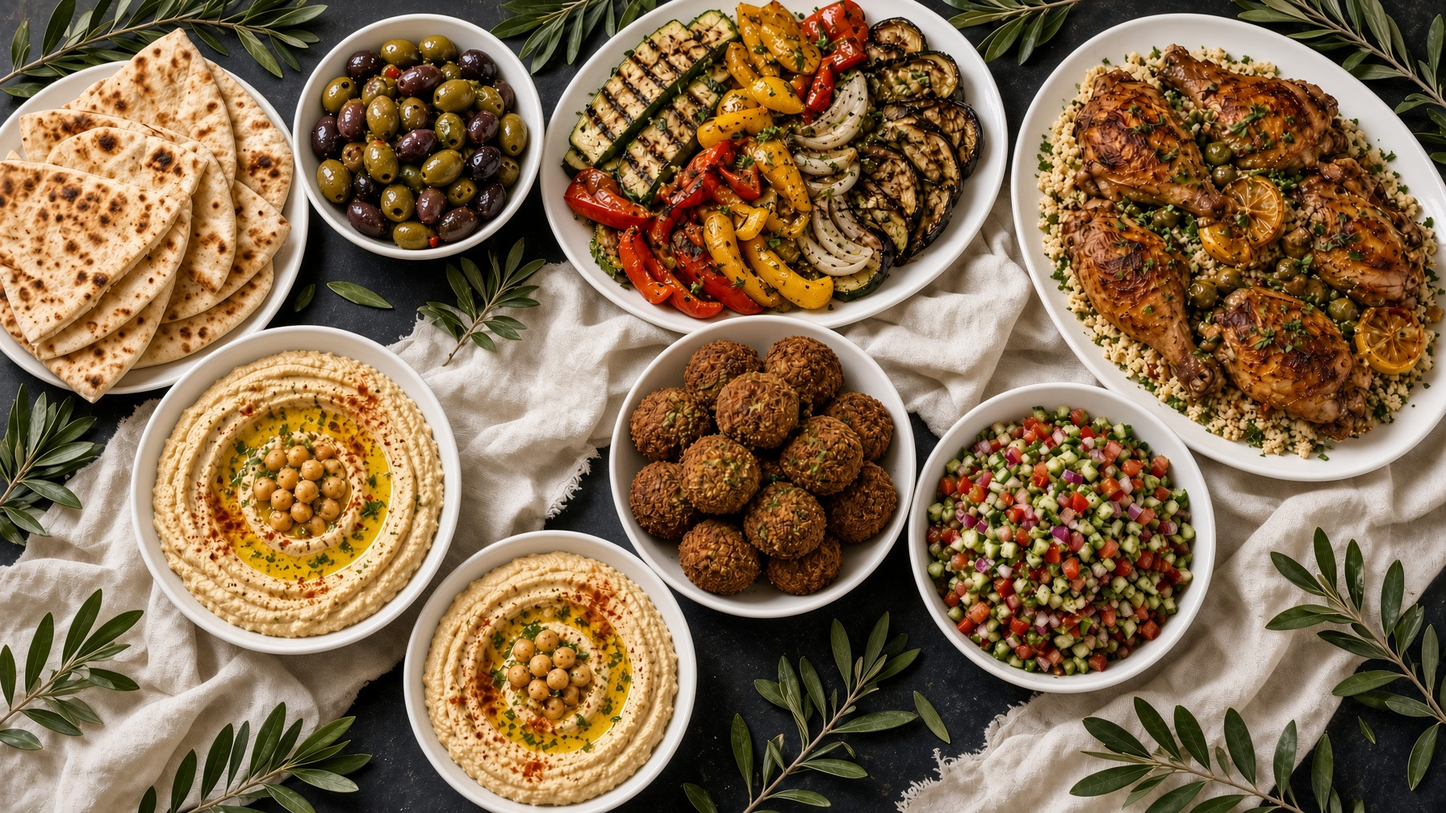
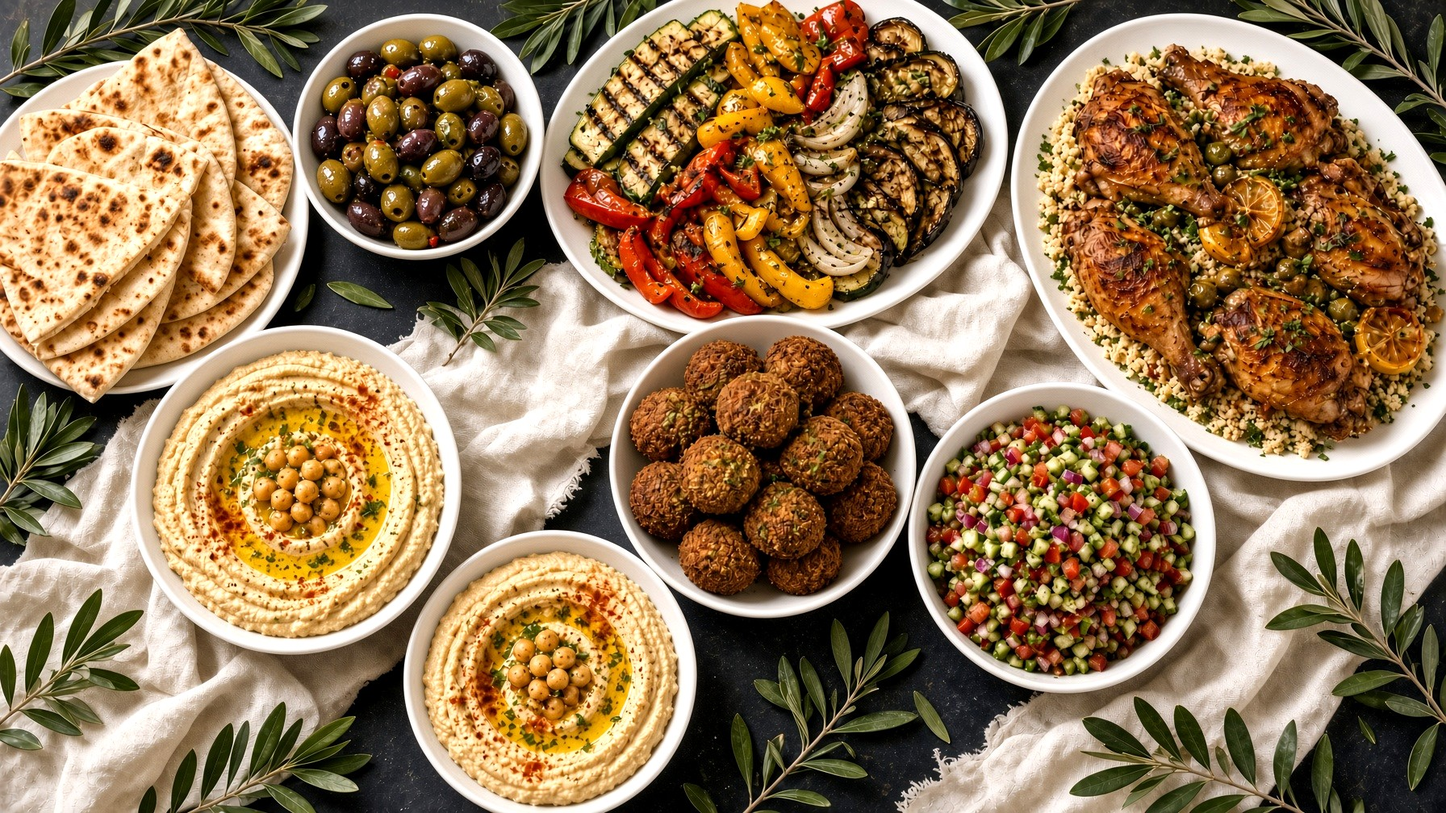
update pics and lighten top page pics

diff --git a/src/routes/index.tsx b/src/routes/index.tsx
@@ -18,7 +18,7 @@ function Home() {
           alt="House hummus with olive oil, chickpeas, and pita"
           className="absolute inset-0 size-full object-cover object-[center_35%]"
         />
-        <div className="absolute inset-0 bg-gradient-to-t from-ink via-ink/75 to-ink/30 sm:bg-gradient-to-r sm:from-ink sm:via-ink/80 sm:to-ink/25" />
+        <div className="absolute inset-0 bg-gradient-to-t from-ink/80 via-ink/30 to-ink/10 sm:bg-gradient-to-r sm:from-ink/45 sm:via-ink/20 sm:to-transparent" />
         <div className="relative mx-auto flex min-h-[78dvh] max-w-6xl flex-col justify-end px-4 pb-12 pt-24 sm:min-h-[88dvh] sm:px-6 sm:pb-24 sm:pt-28">
           <p className="mb-3 text-[10px] font-medium uppercase tracking-[0.18em] text-lime sm:mb-4 sm:text-xs sm:tracking-[0.28em]">
             Mediterranean · Kosher · Scottsdale
@@ -138,7 +138,7 @@ function Home() {
       </section>
 
       <section className="grid lg:grid-cols-2">
-        <img src="/food/interior.jpg" alt="Dining room" className="h-56 w-full object-cover sm:h-full sm:min-h-[320px]" />
+        <img src="/food/dining-room.jpg" alt="Dining room" className="h-56 w-full object-cover object-[center_35%] sm:h-full sm:min-h-[320px]" />
         <div className="flex flex-col justify-center bg-cream px-4 py-12 text-ink sm:px-12 sm:py-16">
           <p className="text-xs font-semibold uppercase tracking-[0.24em] text-olive">Scottsdale</p>
           <h2 className="mt-3 font-display text-3xl font-semibold leading-tight sm:text-4xl">

diff --git a/src/routes/about.tsx b/src/routes/about.tsx
@@ -8,8 +8,8 @@ function AboutPage() {
   return (
     <PageShell>
       <section className="relative overflow-hidden border-b border-line">
-        <img src="/food/interior.jpg" alt="" className="h-[42dvh] w-full object-cover" />
-        <div className="absolute inset-0 bg-ink/55" />
+        <img src="/food/dining-room.jpg" alt="The Hummus Bar dining room" className="h-[42dvh] w-full object-cover object-[center_30%]" />
+        <div className="absolute inset-0 bg-gradient-to-t from-ink/70 via-ink/25 to-ink/10" />
         <div className="absolute inset-x-0 bottom-0 mx-auto max-w-6xl px-4 pb-10 sm:px-6">
           <p className="text-xs uppercase tracking-[0.24em] text-lime">Our house</p>
           <h1 className="mt-2 font-display text-4xl font-semibold text-cream sm:text-5xl">The Hummus Bar</h1>

diff --git a/src/routes/catering.tsx b/src/routes/catering.tsx
@@ -72,7 +72,7 @@ function CateringPage() {
     <PageShell>
       <section className="relative min-h-[48dvh] overflow-hidden">
         <img src="/food/catering.jpg" alt="Catering spread" className="absolute inset-0 size-full object-cover" />
-        <div className="absolute inset-0 bg-ink/60" />
+        <div className="absolute inset-0 bg-gradient-to-t from-ink/70 via-ink/25 to-ink/10" />
         <div className="relative mx-auto flex min-h-[48dvh] max-w-6xl flex-col justify-end px-4 pb-12 sm:px-6">
           <p className="text-xs uppercase tracking-[0.24em] text-lime">Feed the room</p>
           <h1 className="mt-3 font-display text-4xl font-semibold text-cream sm:text-5xl">Trays from the bar</h1>
